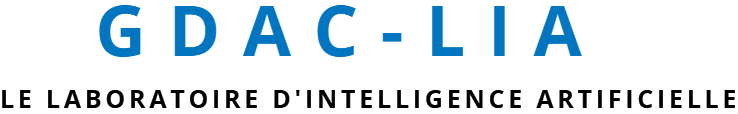
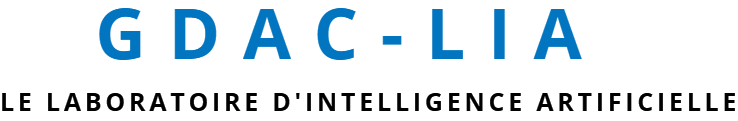
Ajustement du ratio des images

diff --git a/src/image.cpp b/src/image.cpp
@@ -1,0 +1,37 @@
+#include "image.h"
+
+Image::Image(QWidget *parent) :
+  QLabel(parent)
+{
+  this->setMinimumSize(1,1);
+  setScaledContents(false);
+}
+
+void Image::setPixmap ( const QPixmap & p)
+{
+  pix = p;
+  QLabel::setPixmap(scaledPixmap());
+}
+
+int Image::heightForWidth( int width ) const
+{
+  return pix.isNull() ? this->height() : ((qreal)pix.height()*width)/pix.width();
+}
+
+QSize Image::sizeHint() const
+{
+  int w = this->width();
+  return QSize( w, heightForWidth(w) );
+}
+
+QPixmap Image::scaledPixmap() const
+{
+  return pix.scaled(this->size(), Qt::KeepAspectRatio, Qt::SmoothTransformation);
+}
+
+void Image::resizeEvent(QResizeEvent *)
+{
+  setScaledContents(false);
+  if(!pix.isNull())
+      QLabel::setPixmap(scaledPixmap());
+}

diff --git a/src/image.h b/src/image.h
@@ -1,0 +1,26 @@
+#ifndef IMAGE_H
+#define IMAGE_H
+
+#include <QLabel>
+#include <QPixmap>
+#include <QResizeEvent>
+
+class Image : public QLabel
+{
+    Q_OBJECT
+
+    public:
+        explicit Image(QWidget *parent = 0);
+        virtual int heightForWidth( int width ) const;
+        virtual QSize sizeHint() const;
+        QPixmap scaledPixmap() const;
+
+    public slots:
+        void setPixmap ( const QPixmap & );
+        void resizeEvent(QResizeEvent *);
+
+    private:
+        QPixmap pix;
+};
+
+#endif // IMAGE_H

diff --git a/src/frame.h b/src/frame.h
@@ -1,0 +1,17 @@
+#ifndef FRAME_H
+#define FRAME_H
+
+#include <QWidget>
+
+class frame : public QWidget
+{
+    Q_OBJECT
+public:
+    explicit frame(QWidget *parent = nullptr);
+
+signals:
+
+public slots:
+};
+
+#endif // FRAME_H

diff --git a/src/frame.cpp b/src/frame.cpp
@@ -1,0 +1,6 @@
+#include "frame.h"
+
+frame::frame(QWidget *parent) : QWidget(parent)
+{
+
+}
